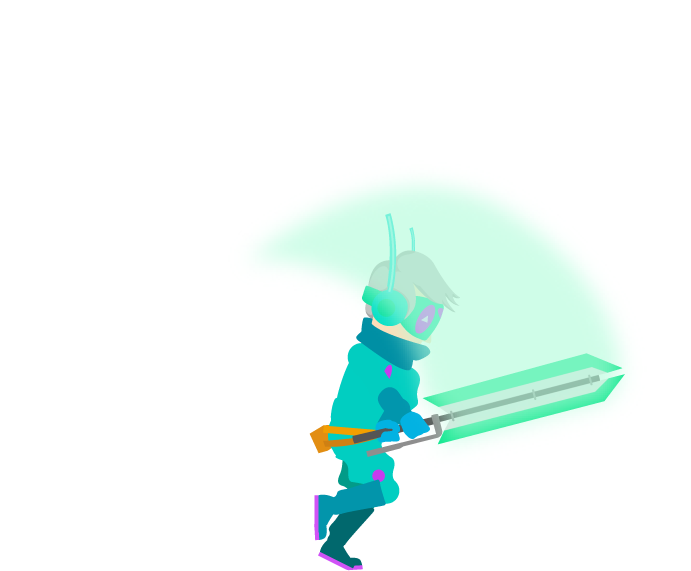
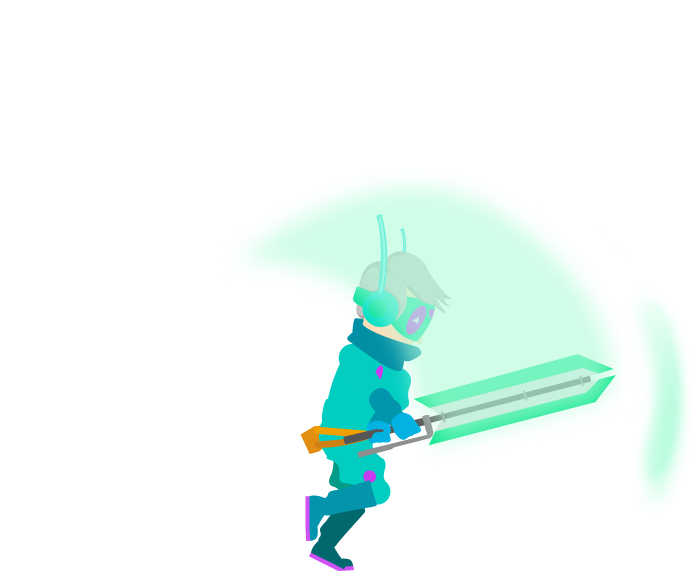
attack action changing

Changed region(s): [[0.4255, 0.3573, 0.9117, 1.0], [0.9117, 0.5359, 1.0, 0.8634]]

diff --git a/TheBuggger/TBPlayerNode.swift b/TheBuggger/TBPlayerNode.swift
@@ -30,13 +30,15 @@ class TBPlayerNode: SKSpriteNode {
     static var deathAnimation: SKAction?
     
     static var defenceAction:SKAction?
-    static var attackActionAnimation:SKAction?
+    static var attackActionAnimation1:SKAction?
+    static var attackActionAnimation2:SKAction?
     static var walkAction:SKAction?
     static var standActionAnimation:SKAction?
     
     
     var defenceActionChangeState:SKAction?
-    var attackActionChangeState:SKAction?
+    var attackActionChangeState1:SKAction?
+    var attackActionChangeState2:SKAction?
     
     var score: Int = 0
     var monstersKilled: Int = 0
@@ -70,7 +72,11 @@ class TBPlayerNode: SKSpriteNode {
     
     static func createPlayerAttack(){
         let atackArray = TBUtils().getSprites("PlayerAttack", nomeImagens: "attack-")
-        TBPlayerNode.attackActionAnimation = SKAction.animateWithTextures(atackArray, timePerFrame: 0.07);
+        let atackArray2 = TBUtils().getSprites("PlayerAttack2", nomeImagens: "attack-")
+        TBPlayerNode.attackActionAnimation1  = SKAction.animateWithTextures(atackArray2, timePerFrame: 0.07)
+        
+        
+        TBPlayerNode.attackActionAnimation2 = SKAction.animateWithTextures(atackArray, timePerFrame: 0.07)
     }
     
     static func createPlayerDefense(){
@@ -135,11 +141,17 @@ class TBPlayerNode: SKSpriteNode {
         })])]))
         
         
-        self.attackActionChangeState = SKAction.group([TBPlayerNode.attackActionAnimation!,SKAction.sequence([SKAction.waitForDuration(0.04),SKAction.runBlock({
+        self.attackActionChangeState1 = SKAction.group([TBPlayerNode.attackActionAnimation1!,SKAction.sequence([SKAction.waitForDuration(0.04),SKAction.runBlock({
             self.attackState = AttackState.Attacking})]) ,
             SKAction.sequence([SKAction.waitForDuration(0.28), SKAction.runBlock({
                 self.attackState = AttackState.Idle}
             )])])
+        
+        self.attackActionChangeState2 = SKAction.group([TBPlayerNode.attackActionAnimation2!,SKAction.sequence([SKAction.waitForDuration(0.04),SKAction.runBlock({
+            self.attackState = AttackState.Attacking})]) ,
+            SKAction.sequence([SKAction.waitForDuration(0.28), SKAction.runBlock({
+                self.attackState = AttackState.Idle}
+                )])])
         
         
         
@@ -171,7 +183,7 @@ class TBPlayerNode: SKSpriteNode {
     
     func addAttackJoint()
     {
-        let atackJointSquare = SKSpriteNode(color: SKColor.clearColor(), size: CGSizeMake(600, 150))
+        let atackJointSquare = SKSpriteNode(color: SKColor.clearColor(), size: CGSizeMake(570, 150))
         
         atackJointSquare.physicsBody = SKPhysicsBody(rectangleOfSize: atackJointSquare.size)
         atackJointSquare.physicsBody?.affectedByGravity = false;
@@ -184,7 +196,7 @@ class TBPlayerNode: SKSpriteNode {
         atackJointSquare.physicsBody?.collisionBitMask = 0b0
         atackJointSquare.physicsBody?.categoryBitMask = GameScene.JOINT_ATTACK_NODE
         atackJointSquare.physicsBody?.contactTestBitMask = GameScene.MONSTER_NODE
-        atackJointSquare.position = CGPointMake(130 , -70)
+        atackJointSquare.position = CGPointMake(120 , -70)
         self.attackJoint = atackJointSquare;
         self.addChild(atackJointSquare)
         
@@ -203,7 +215,11 @@ class TBPlayerNode: SKSpriteNode {
             let bodies =  self.attackJoint?.physicsBody?.allContactedBodies()
             
             
-                self.runAction(attackActionChangeState!,withKey: "attack")
+            if rand() % 2 == 0 {
+                self.runAction(attackActionChangeState1!,withKey: "attack")
+            }else {
+                self.runAction(attackActionChangeState2!,withKey: "attack")
+            }
             
             for body : SKPhysicsBody in bodies! {
                 

diff --git a/TheBuggger/GameScene.swift b/TheBuggger/GameScene.swift
@@ -710,7 +710,9 @@ class GameScene: SKScene, SKPhysicsContactDelegate, TBPlayerNodeJointsDelegate {
             if(self.touchStartedAt != nil &&  self.touchStartedAt! + self.limitTimeAction < currentTime ){
                 self.hero.state = nextStatefor(self.hero.state, andInput: Directions.END)
                 self.hero.actionCall()
-                self.touchStartedAt = currentTime
+                if hero.state != States.FAIL{
+                    self.touchStartedAt = currentTime
+                }
                 self.hero.state = States.Initial
                 
             }
